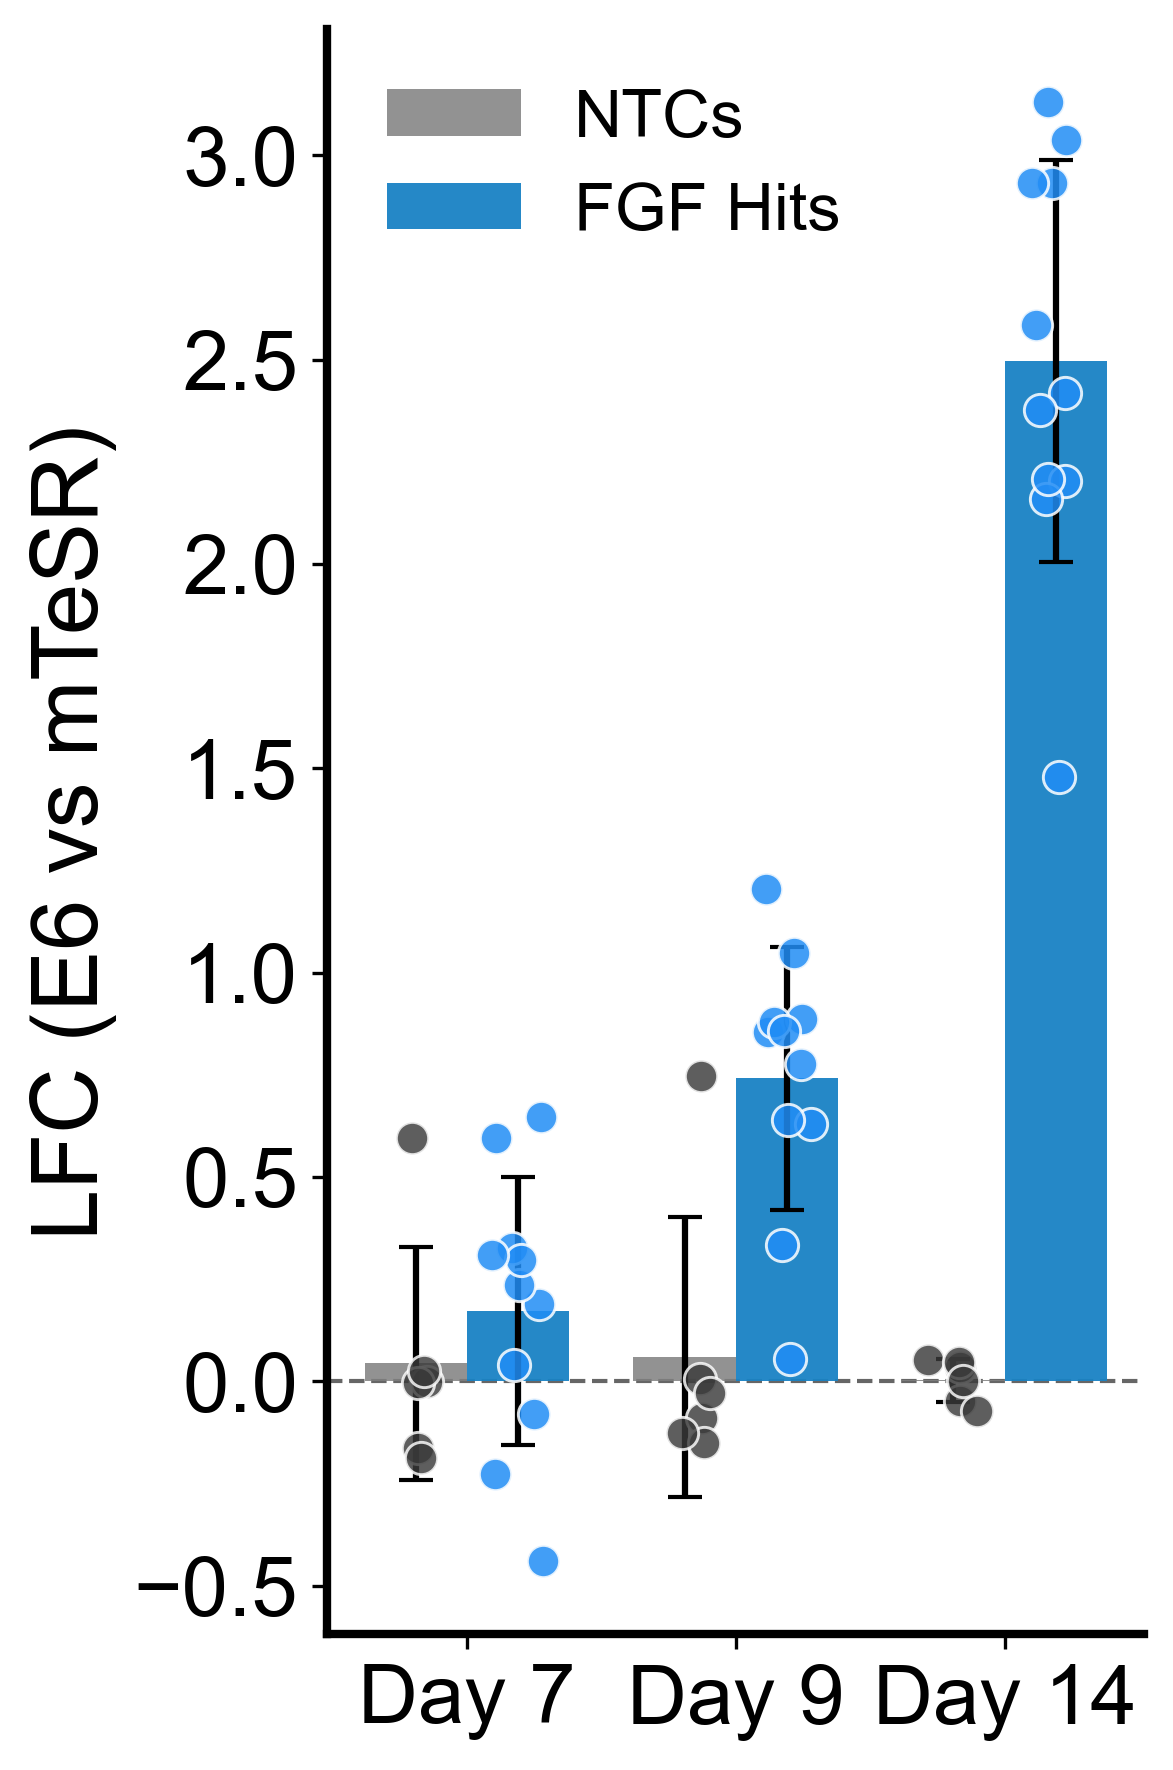
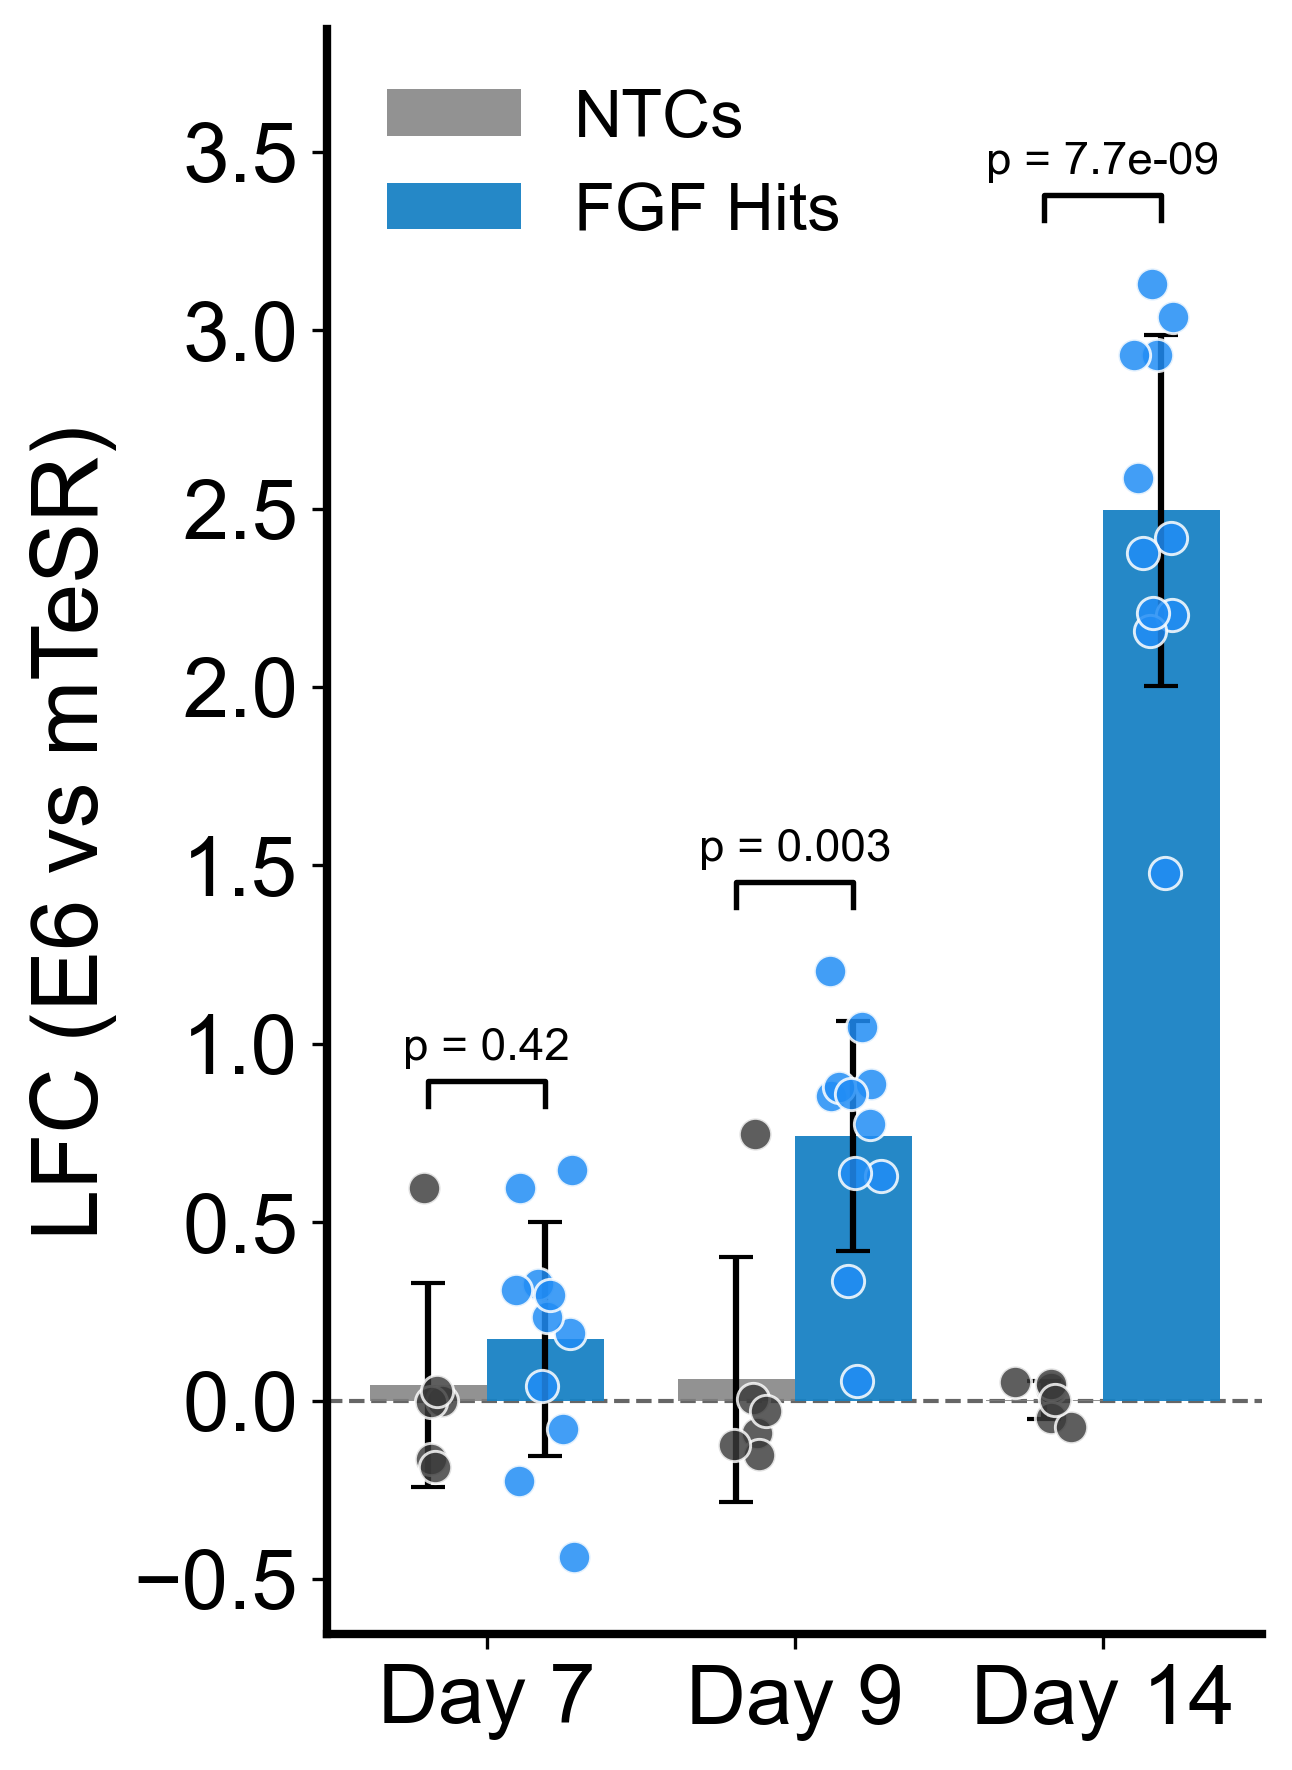
E6/mTeSR gallery: annotate per-day FGF-vs-NTC p-values on the barplot
Add per-timepoint Welch p-value brackets to the FGF-hits-vs-NTC barplot
(D7 p=0.42, D9 p=0.003, D14 p=7.7e-9) and note them in the caption.

diff --git a/docs/fitness_screen_v2/index.html b/docs/fitness_screen_v2/index.html
@@ -111,7 +111,7 @@
       </figure>
   </div>
   <h2 id="fgf">FGF-family rescue</h2>
-  <p>E6 (Essential 6) is mTeSR/E8 <strong>minus FGF2 and TGF&beta;</strong>. Ligands that supply their own FGF autocrine-rescue the FGF starvation, so the FGF family enriches in E6 over time. The bar panel contrasts the FGF hits against the 6 NTC controls across the timecourse (two-way ANOVA: Group <em>p</em>=5.8e-14, Day <em>p</em>=8.2e-16, Group&times;Day <em>p</em>=6.4e-12; CPM-filtered per-construct data, consistent with the rest of this gallery).</p>
+  <p>E6 (Essential 6) is mTeSR/E8 <strong>minus FGF2 and TGF&beta;</strong>. Ligands that supply their own FGF autocrine-rescue the FGF starvation, so the FGF family enriches in E6 over time. The bar panel contrasts the FGF hits against the 6 NTC controls across the timecourse; brackets show the per-day FGF-vs-NTC Welch <em>p</em>-value (D7 0.42, D9 0.003, D14 7.7e-9). Two-way ANOVA: Group <em>p</em>=5.8e-14, Day <em>p</em>=8.2e-16, Group&times;Day <em>p</em>=6.4e-12. CPM-filtered per-construct data, consistent with the rest of this gallery.</p>
   <div class="grid">
       <figure>
         <a class="img-link" href="img/E6_vs_mTeSR_FGF_trajectory.png"><img src="img/E6_vs_mTeSR_FGF_trajectory.png" alt="FGF-family LFC trajectory (E6 vs mTeSR, D7-&gt;D14)"></a>
